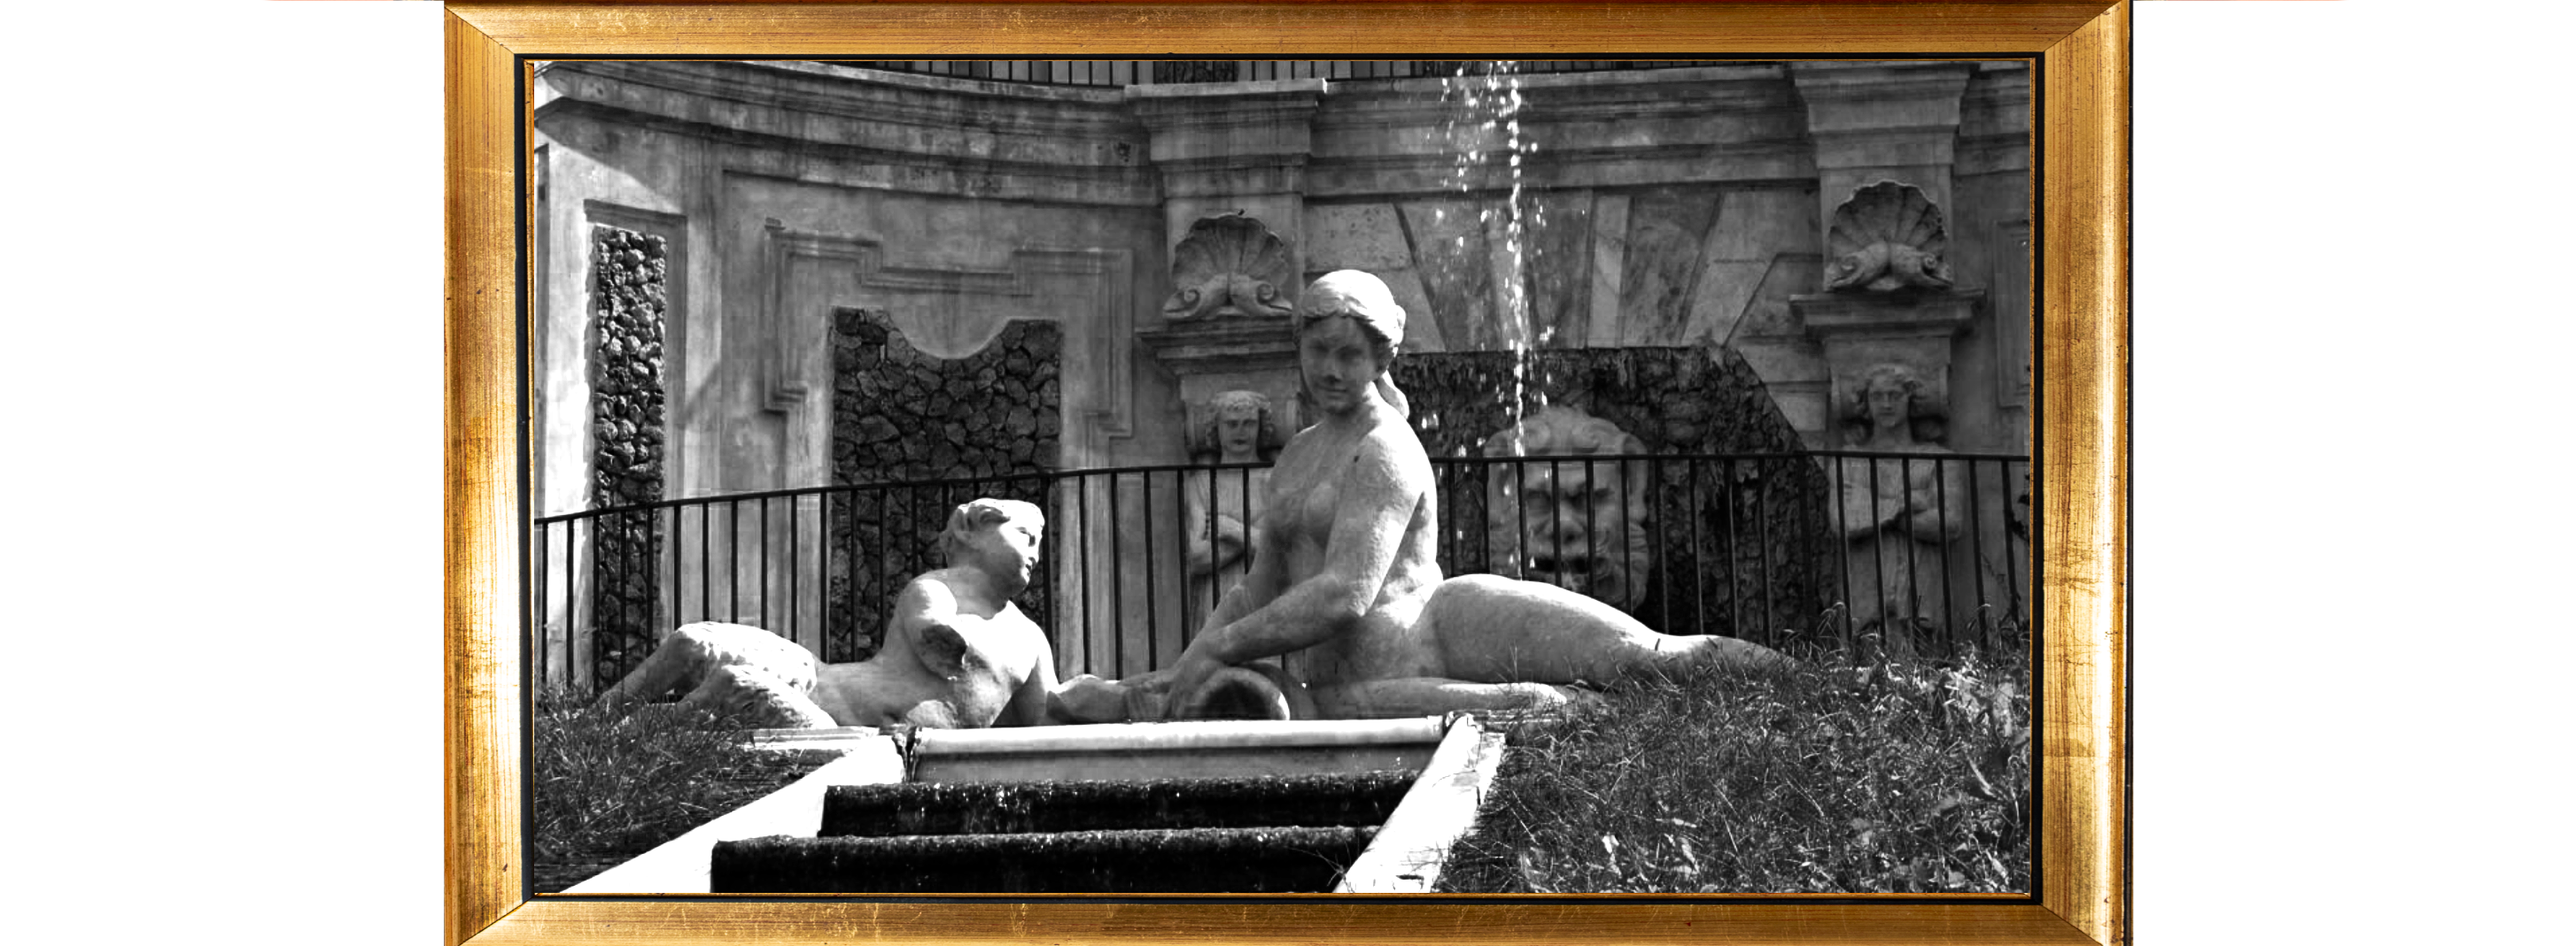
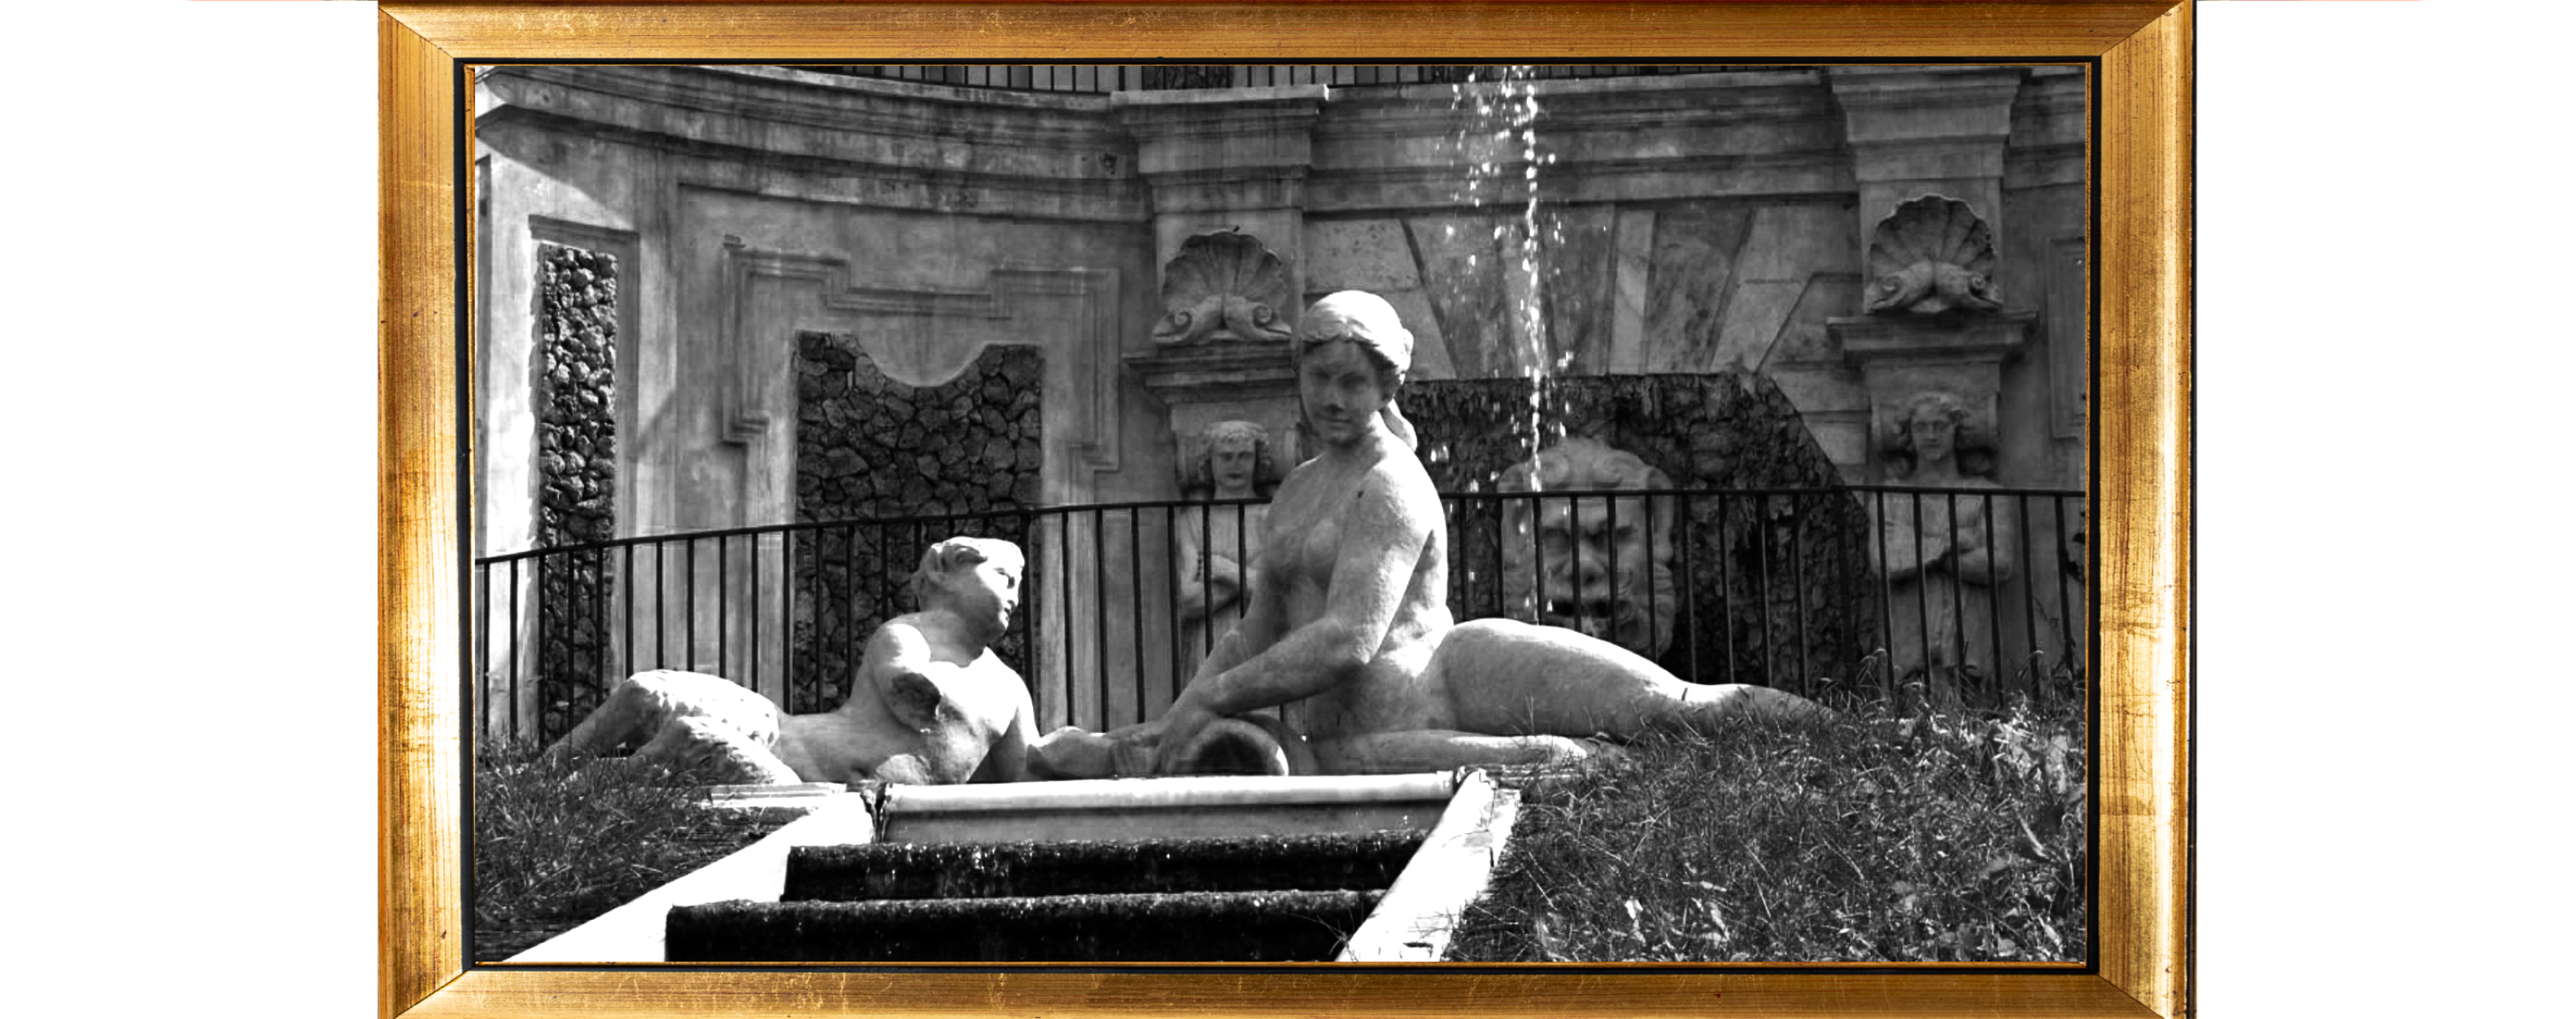
aggiornamento dimensioni artwork 4

diff --git a/src/components/ArtworkDetail.tsx b/src/components/ArtworkDetail.tsx
@@ -102,7 +102,7 @@ const ArtworkDetail = ({ work, isOpen, onClose }: ArtworkDetailProps) => {
         ref={leftPanelRef}
         className="fixed top-1/2 -translate-y-1/2 z-50 pointer-events-auto"
         style={{
-          left: 'calc(50% - 600px)',
+          left: 'calc(50% - 630px)',
           width: '380px',
           opacity: 0,
         }}
@@ -142,7 +142,7 @@ const ArtworkDetail = ({ work, isOpen, onClose }: ArtworkDetailProps) => {
         ref={rightPanelRef}
         className="fixed top-1/2 -translate-y-1/2 z-50 pointer-events-auto"
         style={{
-          right: 'calc(50% - 700px)',
+          right: 'calc(50% - 730px)',
           width: '480px',
           opacity: 0,
         }}
